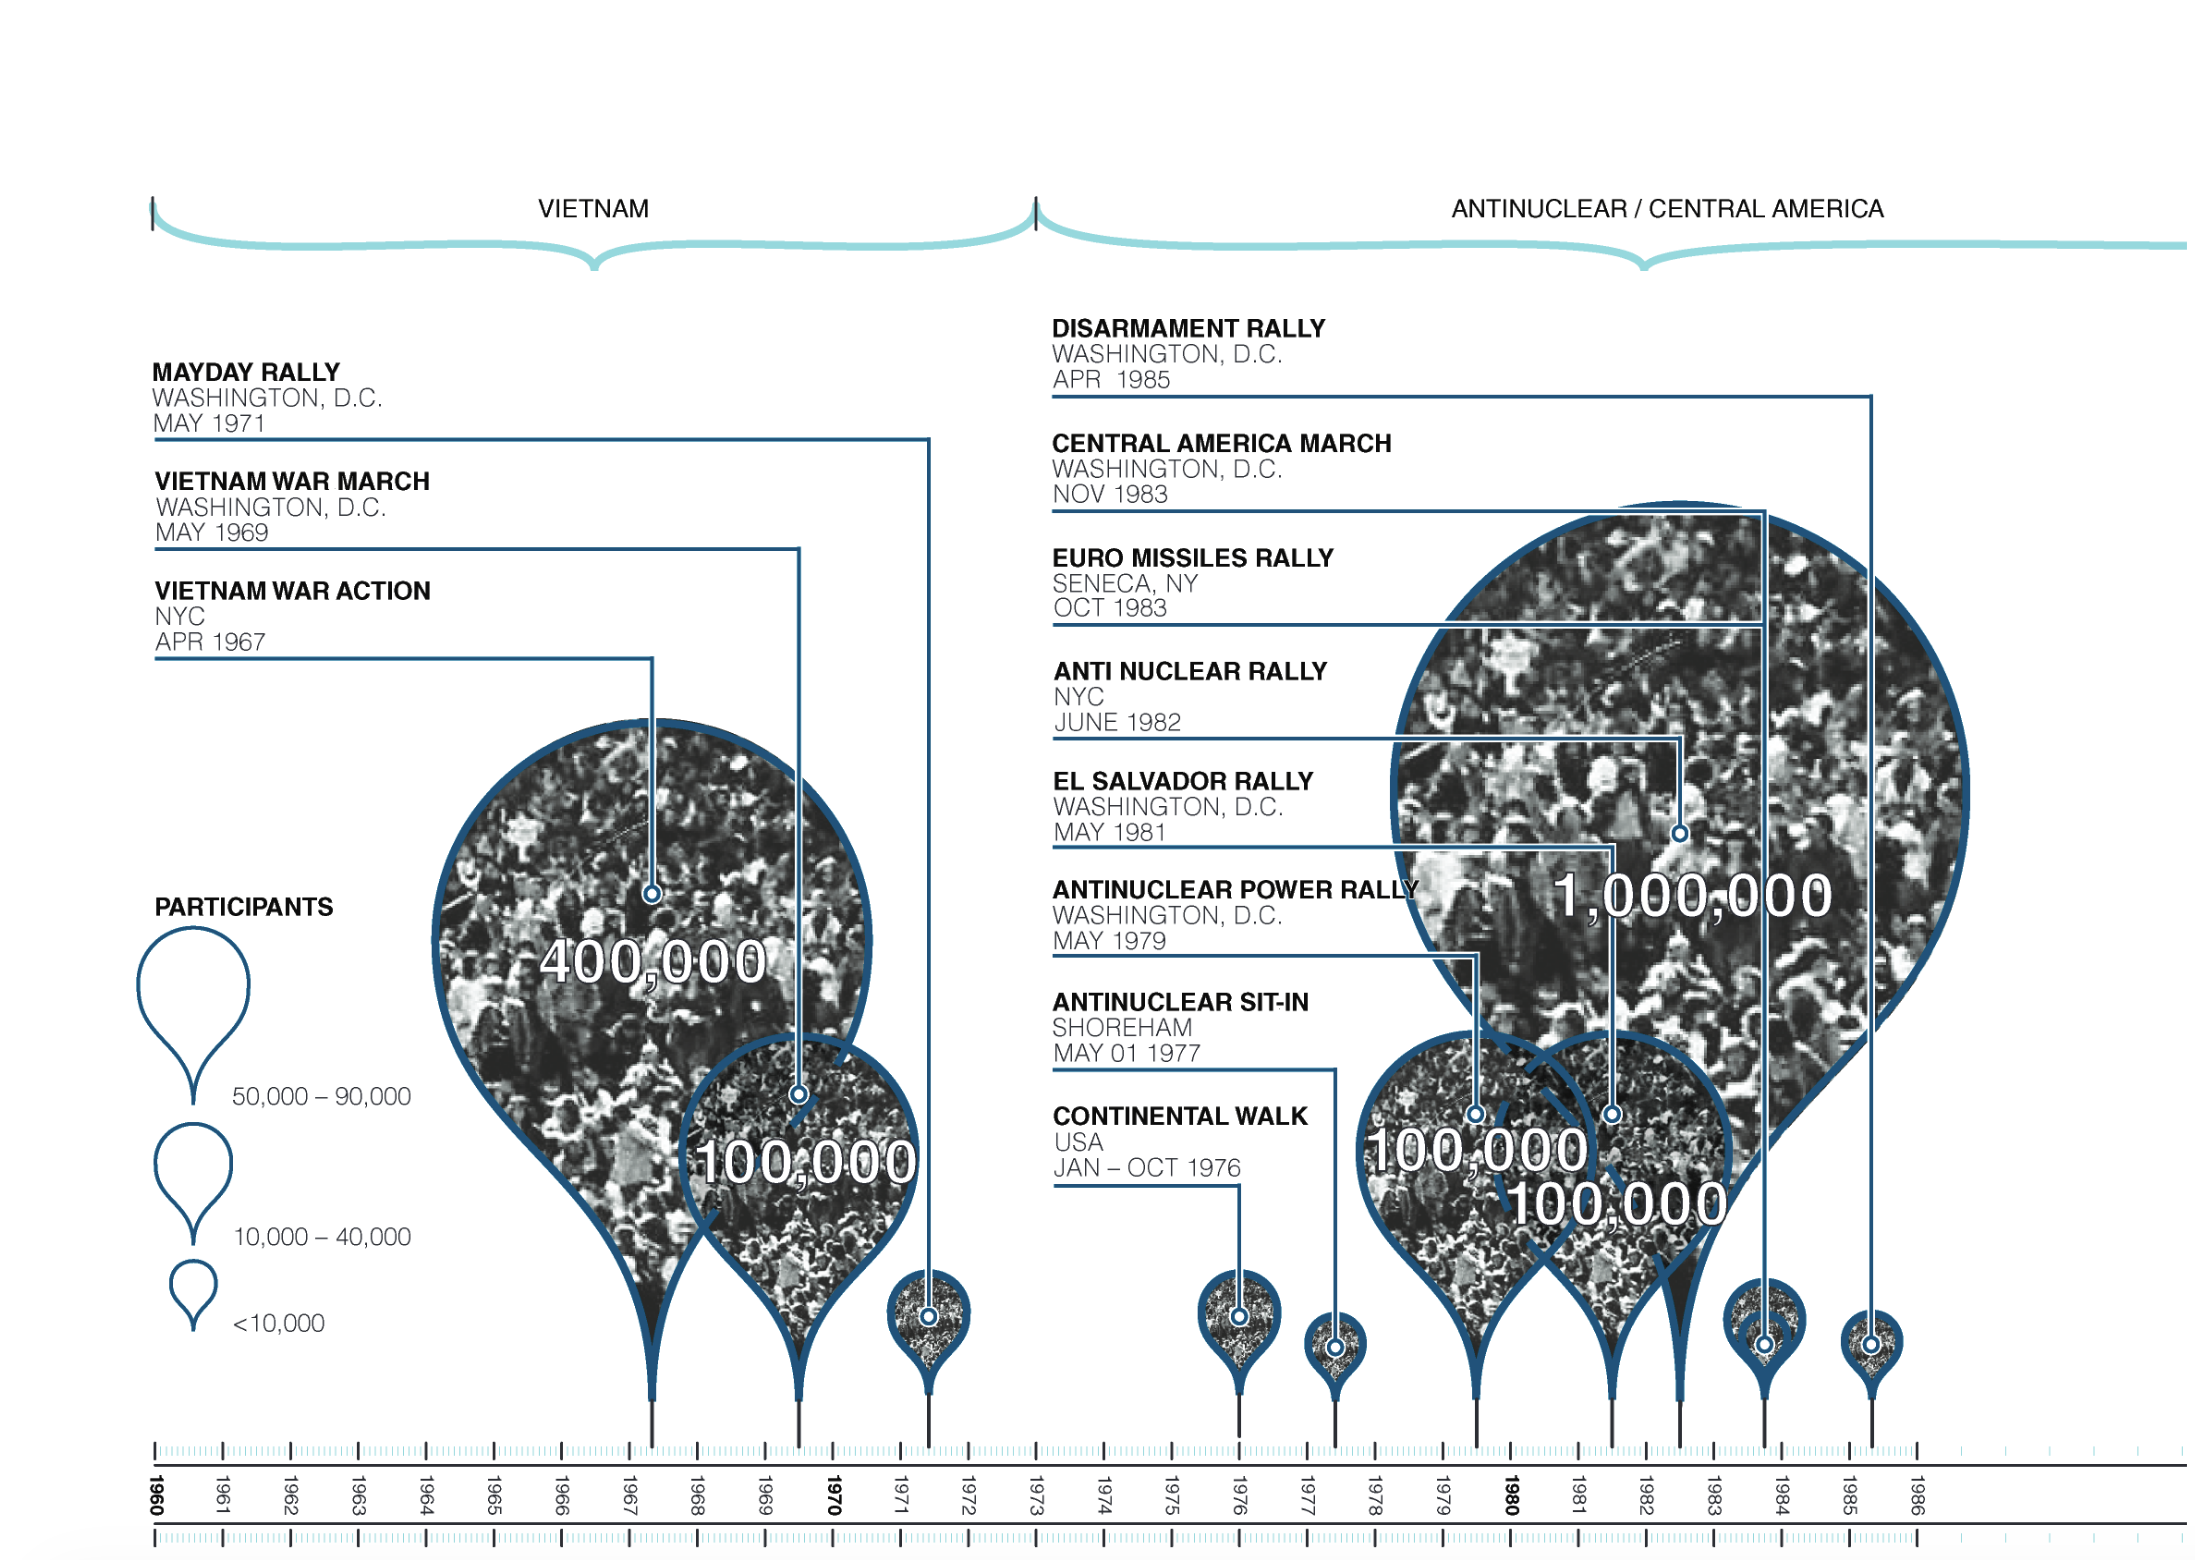
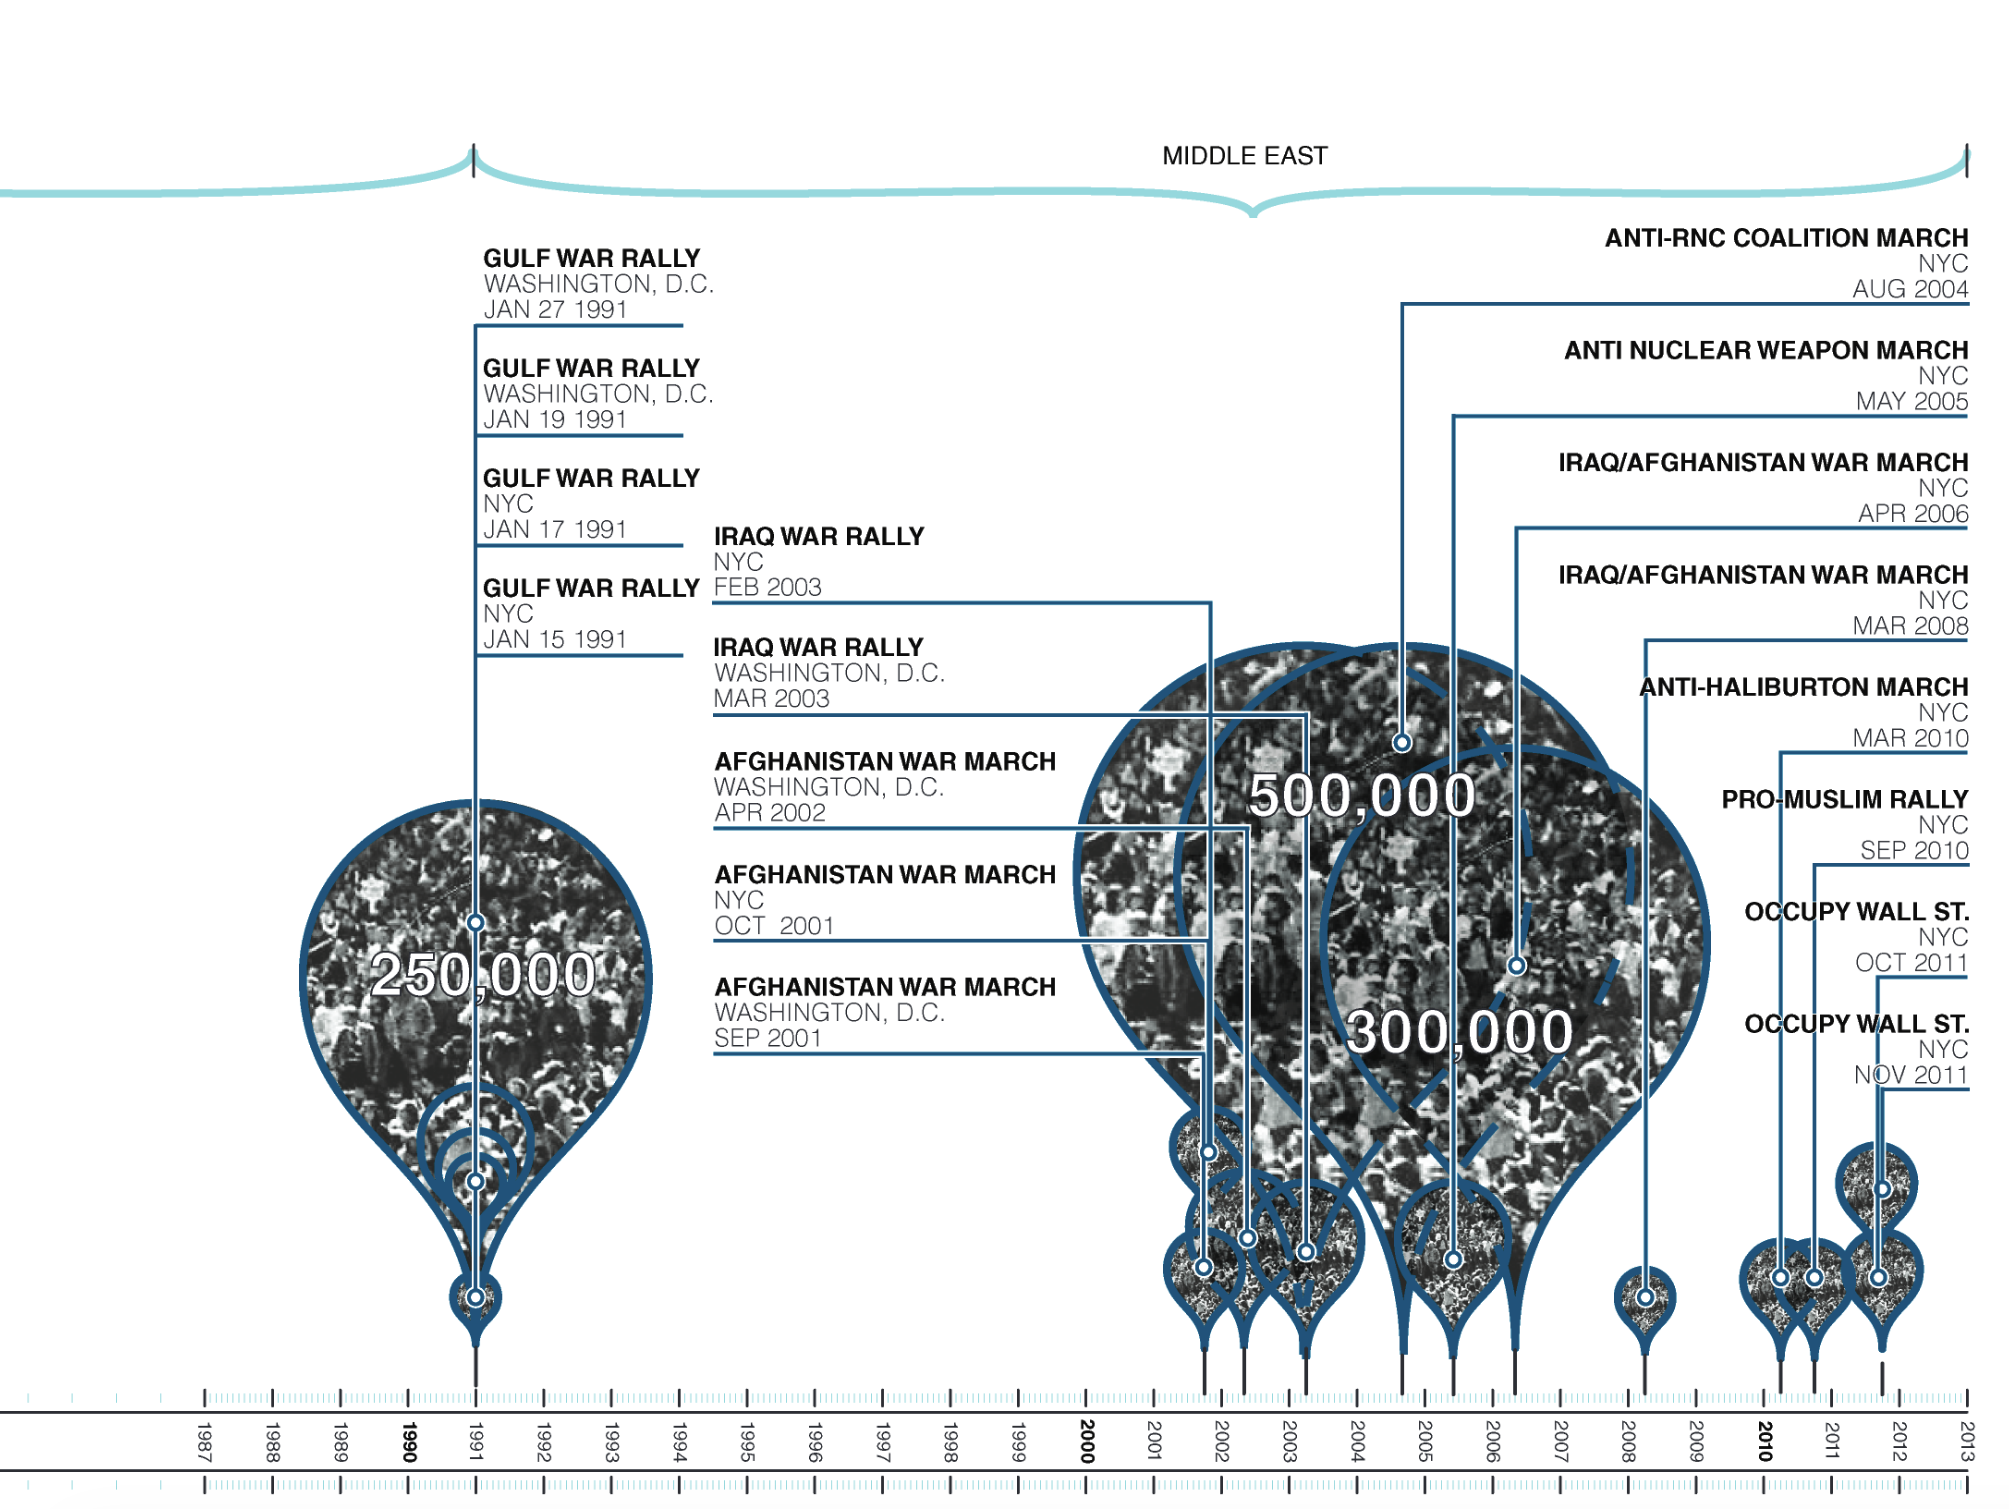
WRL

diff --git a/js/data.js b/js/data.js
@@ -1435,7 +1435,7 @@ sourceUrl: "https://www.sapiens.org/culture/new-york-city-squatting/"
       sourceUrl: ""
     },
     {
-      image: "images/Peace Pentagon/Igal_WRL-1981.png",
+      image: "images/Peace Pentagon/Igal-WRL-1981.png",
       alt: "",
       title: "",
       caption: "",
